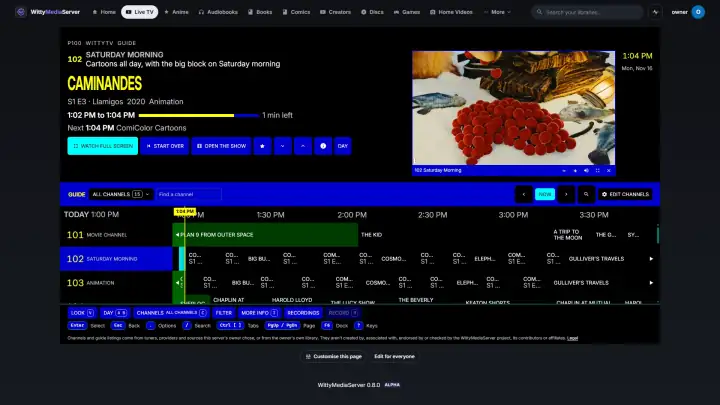
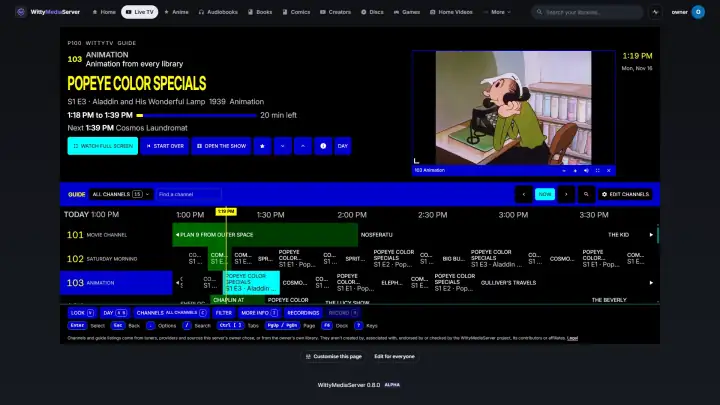
Docs: WittyTV pictures retaken with longer cartoons on the channels, and their captions say what plays (#376)
The demo channels now leave out items under seven minutes (WittyDemoMedia's demo_channels.mjs), and three public-domain two-reel cartoons from 1936 to 1939 were added to the demo media. The guide pictures stop on the cartoon channels.

diff --git a/docs/images/CREDITS.md b/docs/images/CREDITS.md
@@ -124,17 +124,17 @@ Licences were read from each work's source on the day it was fetched. This is a 
 | `tv-mode.webp` | TV mode's Libraries. No media is pictured. |
 | `tv-show-page.webp` | A show's page. Openly licensed and public-domain media, credited in [the list](CREDITS.md). |
 | `tv-shows.webp` | A TV shows library. Openly licensed and public-domain media, credited in [the list](CREDITS.md). |
-| `wittytv-bigpicture.webp` | The Big picture look, playing [Caminandes: Llamigos](https://commons.wikimedia.org/wiki/File:Caminandes_3_-_Llamigos_-_Blender_Animated_Short.webm), Pablo Vazquez, Blender Foundation, [CC BY 3.0](https://creativecommons.org/licenses/by/3.0/). |
-| `wittytv-classic.webp` | The Classic look, playing [Singularity](https://commons.wikimedia.org/wiki/File:SINGULARITY_-_Blender_Open_Movie-full_movie.webm), Blender Studio, [CC BY 4.0](https://creativecommons.org/licenses/by/4.0/). |
-| `wittytv-guide.webp` | WittyTV, with channels made from a library in one press, and the preview playing [Caminandes: Llamigos](https://commons.wikimedia.org/wiki/File:Caminandes_3_-_Llamigos_-_Blender_Animated_Short.webm), Pablo Vazquez, Blender Foundation, [CC BY 3.0](https://creativecommons.org/licenses/by/3.0/). Other titles in the guide are in [the list](CREDITS.md). |
-| `wittytv-listings.webp` | The Newspaper look, playing [Caminandes: Llamigos](https://commons.wikimedia.org/wiki/File:Caminandes_3_-_Llamigos_-_Blender_Animated_Short.webm), Pablo Vazquez, Blender Foundation, [CC BY 3.0](https://creativecommons.org/licenses/by/3.0/). |
-| `wittytv-miniguide.webp` | The mini guide over a channel, playing [Caminandes: Llamigos](https://commons.wikimedia.org/wiki/File:Caminandes_3_-_Llamigos_-_Blender_Animated_Short.webm), Pablo Vazquez, Blender Foundation, [CC BY 3.0](https://creativecommons.org/licenses/by/3.0/). |
-| `wittytv-modern.webp` | The Modern look, playing [Singularity](https://commons.wikimedia.org/wiki/File:SINGULARITY_-_Blender_Open_Movie-full_movie.webm), Blender Studio, [CC BY 4.0](https://creativecommons.org/licenses/by/4.0/). |
+| `wittytv-bigpicture.webp` | The Big picture look, playing [Aladdin and His Wonderful Lamp](https://commons.wikimedia.org/wiki/File:Aladdin_And_His_Wonderful_Lamp_(1939).webm), Dave Fleischer, Fleischer Studios, 1939, public domain. |
+| `wittytv-classic.webp` | The Classic look, playing [Aladdin and His Wonderful Lamp](https://commons.wikimedia.org/wiki/File:Aladdin_And_His_Wonderful_Lamp_(1939).webm), Dave Fleischer, Fleischer Studios, 1939, public domain. |
+| `wittytv-guide.webp` | WittyTV, with channels made from a library in one press, and the preview playing [Aladdin and His Wonderful Lamp](https://commons.wikimedia.org/wiki/File:Aladdin_And_His_Wonderful_Lamp_(1939).webm), Dave Fleischer, Fleischer Studios, 1939, public domain. Other titles in the guide are in [the list](CREDITS.md). |
+| `wittytv-listings.webp` | The Newspaper look, playing [Aladdin and His Wonderful Lamp](https://commons.wikimedia.org/wiki/File:Aladdin_And_His_Wonderful_Lamp_(1939).webm), Dave Fleischer, Fleischer Studios, 1939, public domain. |
+| `wittytv-miniguide.webp` | The mini guide over a channel, playing [Aladdin and His Wonderful Lamp](https://commons.wikimedia.org/wiki/File:Aladdin_And_His_Wonderful_Lamp_(1939).webm), Dave Fleischer, Fleischer Studios, 1939, public domain. |
+| `wittytv-modern.webp` | The Modern look, playing [Aladdin and His Wonderful Lamp](https://commons.wikimedia.org/wiki/File:Aladdin_And_His_Wonderful_Lamp_(1939).webm), Dave Fleischer, Fleischer Studios, 1939, public domain. |
 | `wittytv-new-channel.webp` | Making a channel. |
 | `wittytv-recordings.webp` | Recordings, on a server with none yet. |
-| `wittytv-satellite.webp` | The Satellite look, playing [Caminandes: Llamigos](https://commons.wikimedia.org/wiki/File:Caminandes_3_-_Llamigos_-_Blender_Animated_Short.webm), Pablo Vazquez, Blender Foundation, [CC BY 3.0](https://creativecommons.org/licenses/by/3.0/). |
-| `wittytv-teletext.webp` | The Teletext look, playing [Caminandes: Llamigos](https://commons.wikimedia.org/wiki/File:Caminandes_3_-_Llamigos_-_Blender_Animated_Short.webm), Pablo Vazquez, Blender Foundation, [CC BY 3.0](https://creativecommons.org/licenses/by/3.0/). |
-| `wittytv-watching.webp` | A channel, full screen, playing [Caminandes: Llamigos](https://commons.wikimedia.org/wiki/File:Caminandes_3_-_Llamigos_-_Blender_Animated_Short.webm), Pablo Vazquez, Blender Foundation, [CC BY 3.0](https://creativecommons.org/licenses/by/3.0/). |
+| `wittytv-satellite.webp` | The Satellite look, playing [Aladdin and His Wonderful Lamp](https://commons.wikimedia.org/wiki/File:Aladdin_And_His_Wonderful_Lamp_(1939).webm), Dave Fleischer, Fleischer Studios, 1939, public domain. |
+| `wittytv-teletext.webp` | The Teletext look, playing [Aladdin and His Wonderful Lamp](https://commons.wikimedia.org/wiki/File:Aladdin_And_His_Wonderful_Lamp_(1939).webm), Dave Fleischer, Fleischer Studios, 1939, public domain. |
+| `wittytv-watching.webp` | A channel, full screen, playing [Aladdin and His Wonderful Lamp](https://commons.wikimedia.org/wiki/File:Aladdin_And_His_Wonderful_Lamp_(1939).webm), Dave Fleischer, Fleischer Studios, 1939, public domain. |
 
 ## Everything on the test server
 
@@ -282,6 +282,9 @@ Licences were read from each work's source on the day it was fetched. This is a 
 | NASA ScienceCasts: Solar Eclipse in the USA | NASA | Public domain | [source](https://commons.wikimedia.org/wiki/File:ScienceCasts_Solar_Eclipse_in_the_USA.webm) |
 | NASA ScienceCasts: Strong Magnetic Fields Found Inside Stars | NASA | [CC BY 3.0](https://creativecommons.org/licenses/by/3.0) | [source](https://commons.wikimedia.org/wiki/File:ScienceCasts-_Strong_Magnetic_Fields_Found_Inside_Stars.webm) |
 | NASA ScienceCasts: The Zero Gravity Coffee Cup | NASA | Public domain | [source](https://commons.wikimedia.org/wiki/File:ScienceCasts-_The_Zero_Gravity_Coffee_Cup.webm) |
+| Popeye Color Specials: Popeye the Sailor Meets Sindbad the Sailor | Dave Fleischer, Fleischer Studios | Public domain | [source](https://commons.wikimedia.org/wiki/File:Popeye_The_Sailor_Meets_Sindbad_The_Sailor_(1936).webm) |
+| Popeye Color Specials: Popeye the Sailor Meets Ali Baba's Forty Thieves | Dave Fleischer, Fleischer Studios | Public domain | [source](https://commons.wikimedia.org/wiki/File:Popeye_The_Sailor_Meets_Ali_Baba%27s_Forty_Thieves_(1937).webm) |
+| Popeye Color Specials: Aladdin and His Wonderful Lamp | Dave Fleischer, Fleischer Studios | Public domain | [source](https://commons.wikimedia.org/wiki/File:Aladdin_And_His_Wonderful_Lamp_(1939).webm) |
 | The Beverly Hillbillies: Grannys Garden | Paul Henning | Public domain | [source](https://commons.wikimedia.org/wiki/File:Beverly_Hillbillies_Episode_39_Grannys_Garden.ogv) |
 | The Beverly Hillbillies: Jed Buys Stock | Paul Henning | Public domain | [source](https://commons.wikimedia.org/wiki/File:Beverly_Hillbillies_Episode_05_Jed_Buys_Stock.ogv) |
 | The Beverly Hillbillies: Pygmalion And Elly | Paul Henning | Public domain | [source](https://commons.wikimedia.org/wiki/File:Beverly_Hillbillies_Episode_10_Pygmalion_And_Elly.ogv) |

diff --git a/docs/CHANNELS.md b/docs/CHANNELS.md
@@ -40,7 +40,7 @@ A channel runs all the time, like real TV: tune in and you join the show part-wa
 The top of the guide says everything about the highlighted programme: channel, title, year and genre, start and end, how far in, and what's next. From there you can **Watch full screen**, **Start over** (the title from the beginning, on your own), open the film or show, make the channel a favourite, change channel, read more, and see the whole day.
 
 ![A TV guide with a row for each channel, and a film playing in the preview](images/wittytv-guide.webp)
-*WittyTV, with channels made from a library in one press, and the preview playing [Caminandes: Llamigos](https://commons.wikimedia.org/wiki/File:Caminandes_3_-_Llamigos_-_Blender_Animated_Short.webm), Pablo Vazquez, Blender Foundation, [CC BY 3.0](https://creativecommons.org/licenses/by/3.0/). Other titles in the guide are in [the list](images/CREDITS.md).*
+*WittyTV, with channels made from a library in one press, and the preview playing [Aladdin and His Wonderful Lamp](https://commons.wikimedia.org/wiki/File:Aladdin_And_His_Wonderful_Lamp_(1939).webm), Dave Fleischer, Fleischer Studios, 1939, public domain. Other titles in the guide are in [the list](images/CREDITS.md).*
 
 Above the grid:
 
@@ -92,16 +92,16 @@ Sets need a server with this version; an app or a server from before shows the f
 WittyTV has themes of its own, apart from the app's theme. Press **Look** on the guide, or open **Settings → Appearance** and choose **WittyTV** under **On this page**. Each is drawn as a small picture of itself, and changes show straight away. A theme changes the guide, the player's banner and mini guide, recordings and the other TV pages, not only the grid.
 
 ![The guide in the Satellite look, with a film playing](images/wittytv-satellite.webp)
-*The Satellite look, playing [Caminandes: Llamigos](https://commons.wikimedia.org/wiki/File:Caminandes_3_-_Llamigos_-_Blender_Animated_Short.webm), Pablo Vazquez, Blender Foundation, [CC BY 3.0](https://creativecommons.org/licenses/by/3.0/).*
+*The Satellite look, playing [Aladdin and His Wonderful Lamp](https://commons.wikimedia.org/wiki/File:Aladdin_And_His_Wonderful_Lamp_(1939).webm), Dave Fleischer, Fleischer Studios, 1939, public domain.*
 
 ![The guide in the Modern look, with a film playing](images/wittytv-modern.webp)
-*The Modern look, playing [Singularity](https://commons.wikimedia.org/wiki/File:SINGULARITY_-_Blender_Open_Movie-full_movie.webm), Blender Studio, [CC BY 4.0](https://creativecommons.org/licenses/by/4.0/).*
+*The Modern look, playing [Aladdin and His Wonderful Lamp](https://commons.wikimedia.org/wiki/File:Aladdin_And_His_Wonderful_Lamp_(1939).webm), Dave Fleischer, Fleischer Studios, 1939, public domain.*
 
 ![The guide in the Big picture look, with a large preview](images/wittytv-bigpicture.webp)
-*The Big picture look, playing [Caminandes: Llamigos](https://commons.wikimedia.org/wiki/File:Caminandes_3_-_Llamigos_-_Blender_Animated_Short.webm), Pablo Vazquez, Blender Foundation, [CC BY 3.0](https://creativecommons.org/licenses/by/3.0/).*
+*The Big picture look, playing [Aladdin and His Wonderful Lamp](https://commons.wikimedia.org/wiki/File:Aladdin_And_His_Wonderful_Lamp_(1939).webm), Dave Fleischer, Fleischer Studios, 1939, public domain.*
 
 ![The same guide in the Classic look, like an old cable box](images/wittytv-classic.webp)
-*The Classic look, playing [Singularity](https://commons.wikimedia.org/wiki/File:SINGULARITY_-_Blender_Open_Movie-full_movie.webm), Blender Studio, [CC BY 4.0](https://creativecommons.org/licenses/by/4.0/).*
+*The Classic look, playing [Aladdin and His Wonderful Lamp](https://commons.wikimedia.org/wiki/File:Aladdin_And_His_Wonderful_Lamp_(1939).webm), Dave Fleischer, Fleischer Studios, 1939, public domain.*
 
 | Theme | What it is like | Colours |
 |---|---|---|
@@ -156,10 +156,10 @@ Tuning shows a banner with the channel number, name, times, a progress bar and w
 When nothing is scheduled, a channel shows a **We'll be right back** card with the channel's name and what's coming up, in the watch view and in the guide's preview alike, so the picture never looks broken. It goes when the next programme starts.
 
 ![A small list of channels over the picture](images/wittytv-miniguide.webp)
-*The mini guide over a channel, playing [Caminandes: Llamigos](https://commons.wikimedia.org/wiki/File:Caminandes_3_-_Llamigos_-_Blender_Animated_Short.webm), Pablo Vazquez, Blender Foundation, [CC BY 3.0](https://creativecommons.org/licenses/by/3.0/).*
+*The mini guide over a channel, playing [Aladdin and His Wonderful Lamp](https://commons.wikimedia.org/wiki/File:Aladdin_And_His_Wonderful_Lamp_(1939).webm), Dave Fleischer, Fleischer Studios, 1939, public domain.*
 
 ![A channel playing full screen, with what's on along the bottom](images/wittytv-watching.webp)
-*A channel, full screen, playing [Caminandes: Llamigos](https://commons.wikimedia.org/wiki/File:Caminandes_3_-_Llamigos_-_Blender_Animated_Short.webm), Pablo Vazquez, Blender Foundation, [CC BY 3.0](https://creativecommons.org/licenses/by/3.0/).*
+*A channel, full screen, playing [Aladdin and His Wonderful Lamp](https://commons.wikimedia.org/wiki/File:Aladdin_And_His_Wonderful_Lamp_(1939).webm), Dave Fleischer, Fleischer Studios, 1939, public domain.*
 
 | Key | While watching |
 |---|---|

diff --git a/docs/THEMES.md b/docs/THEMES.md
@@ -123,10 +123,10 @@ To change a theme that's nearly right, press the download button on its card in 
 WittyTV, the TV guide, has eight themes of its own, separate from the app's theme and from the looks above. An app theme can suggest one, with one more setting in `:root`:
 
 ![The TV guide in the Teletext look](images/wittytv-teletext.webp)
-*The Teletext look, playing [Caminandes: Llamigos](https://commons.wikimedia.org/wiki/File:Caminandes_3_-_Llamigos_-_Blender_Animated_Short.webm), Pablo Vazquez, Blender Foundation, [CC BY 3.0](https://creativecommons.org/licenses/by/3.0/).*
+*The Teletext look, playing [Aladdin and His Wonderful Lamp](https://commons.wikimedia.org/wiki/File:Aladdin_And_His_Wonderful_Lamp_(1939).webm), Dave Fleischer, Fleischer Studios, 1939, public domain.*
 
 ![The TV guide in the Newspaper look, like a printed paper](images/wittytv-listings.webp)
-*The Newspaper look, playing [Caminandes: Llamigos](https://commons.wikimedia.org/wiki/File:Caminandes_3_-_Llamigos_-_Blender_Animated_Short.webm), Pablo Vazquez, Blender Foundation, [CC BY 3.0](https://creativecommons.org/licenses/by/3.0/).*
+*The Newspaper look, playing [Aladdin and His Wonderful Lamp](https://commons.wikimedia.org/wiki/File:Aladdin_And_His_Wonderful_Lamp_(1939).webm), Dave Fleischer, Fleischer Studios, 1939, public domain.*
 
 ```css
 :root {
